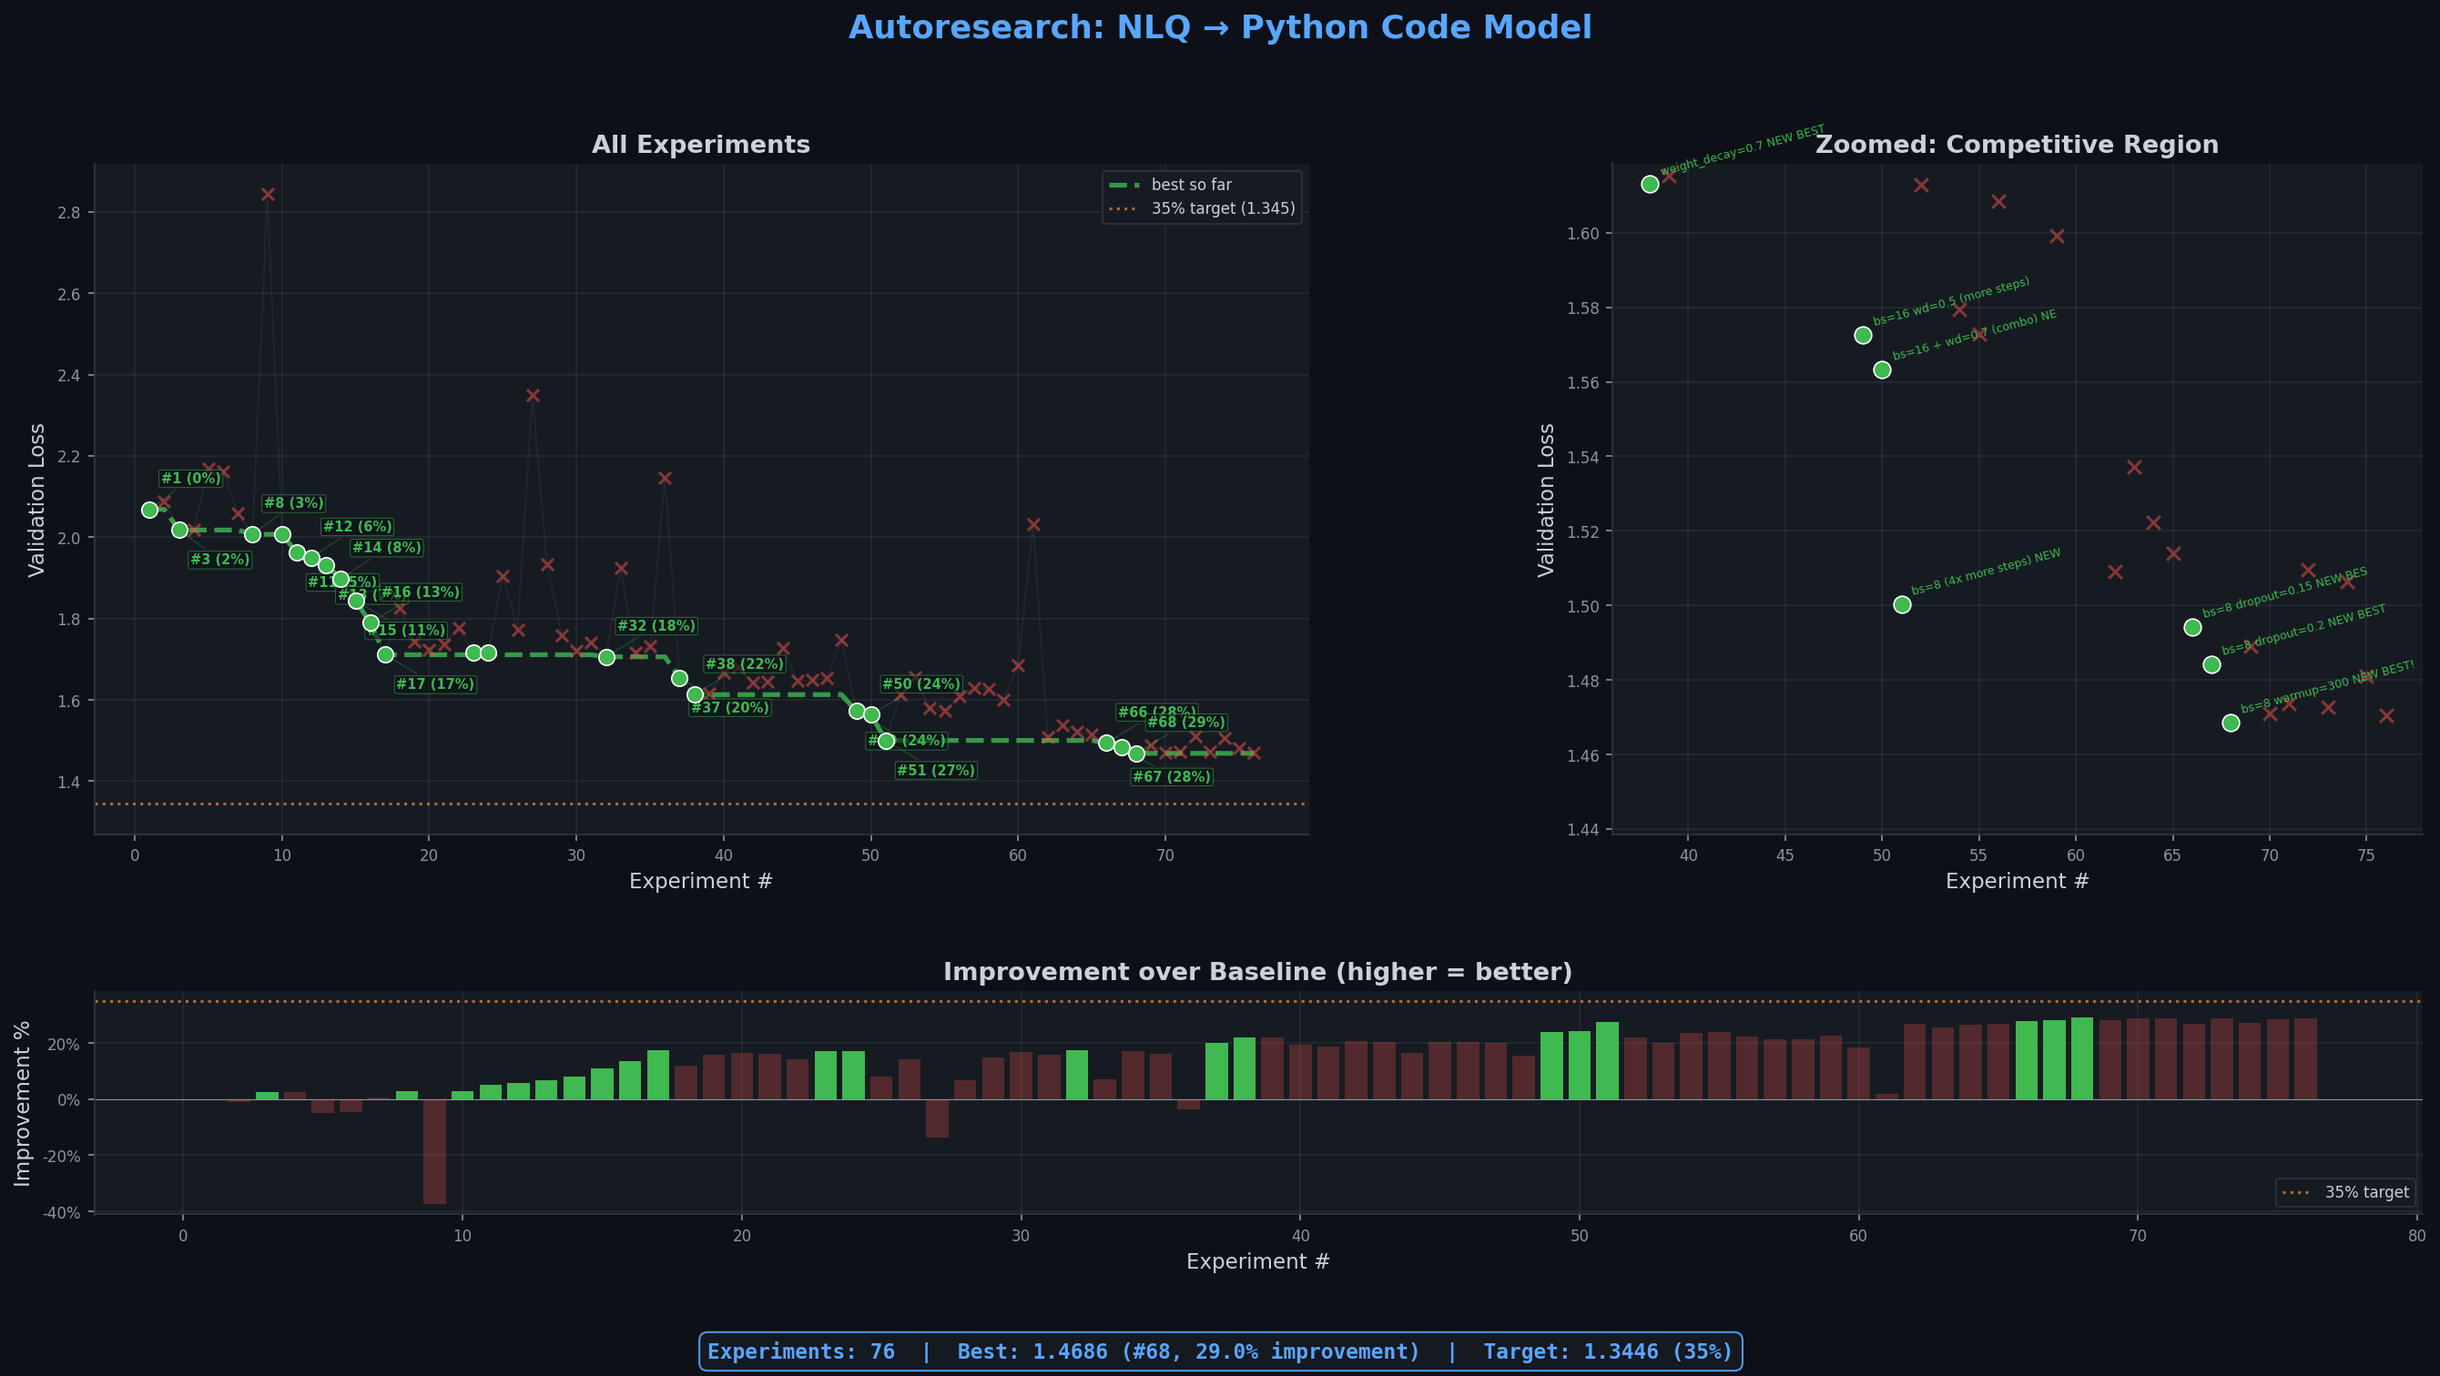
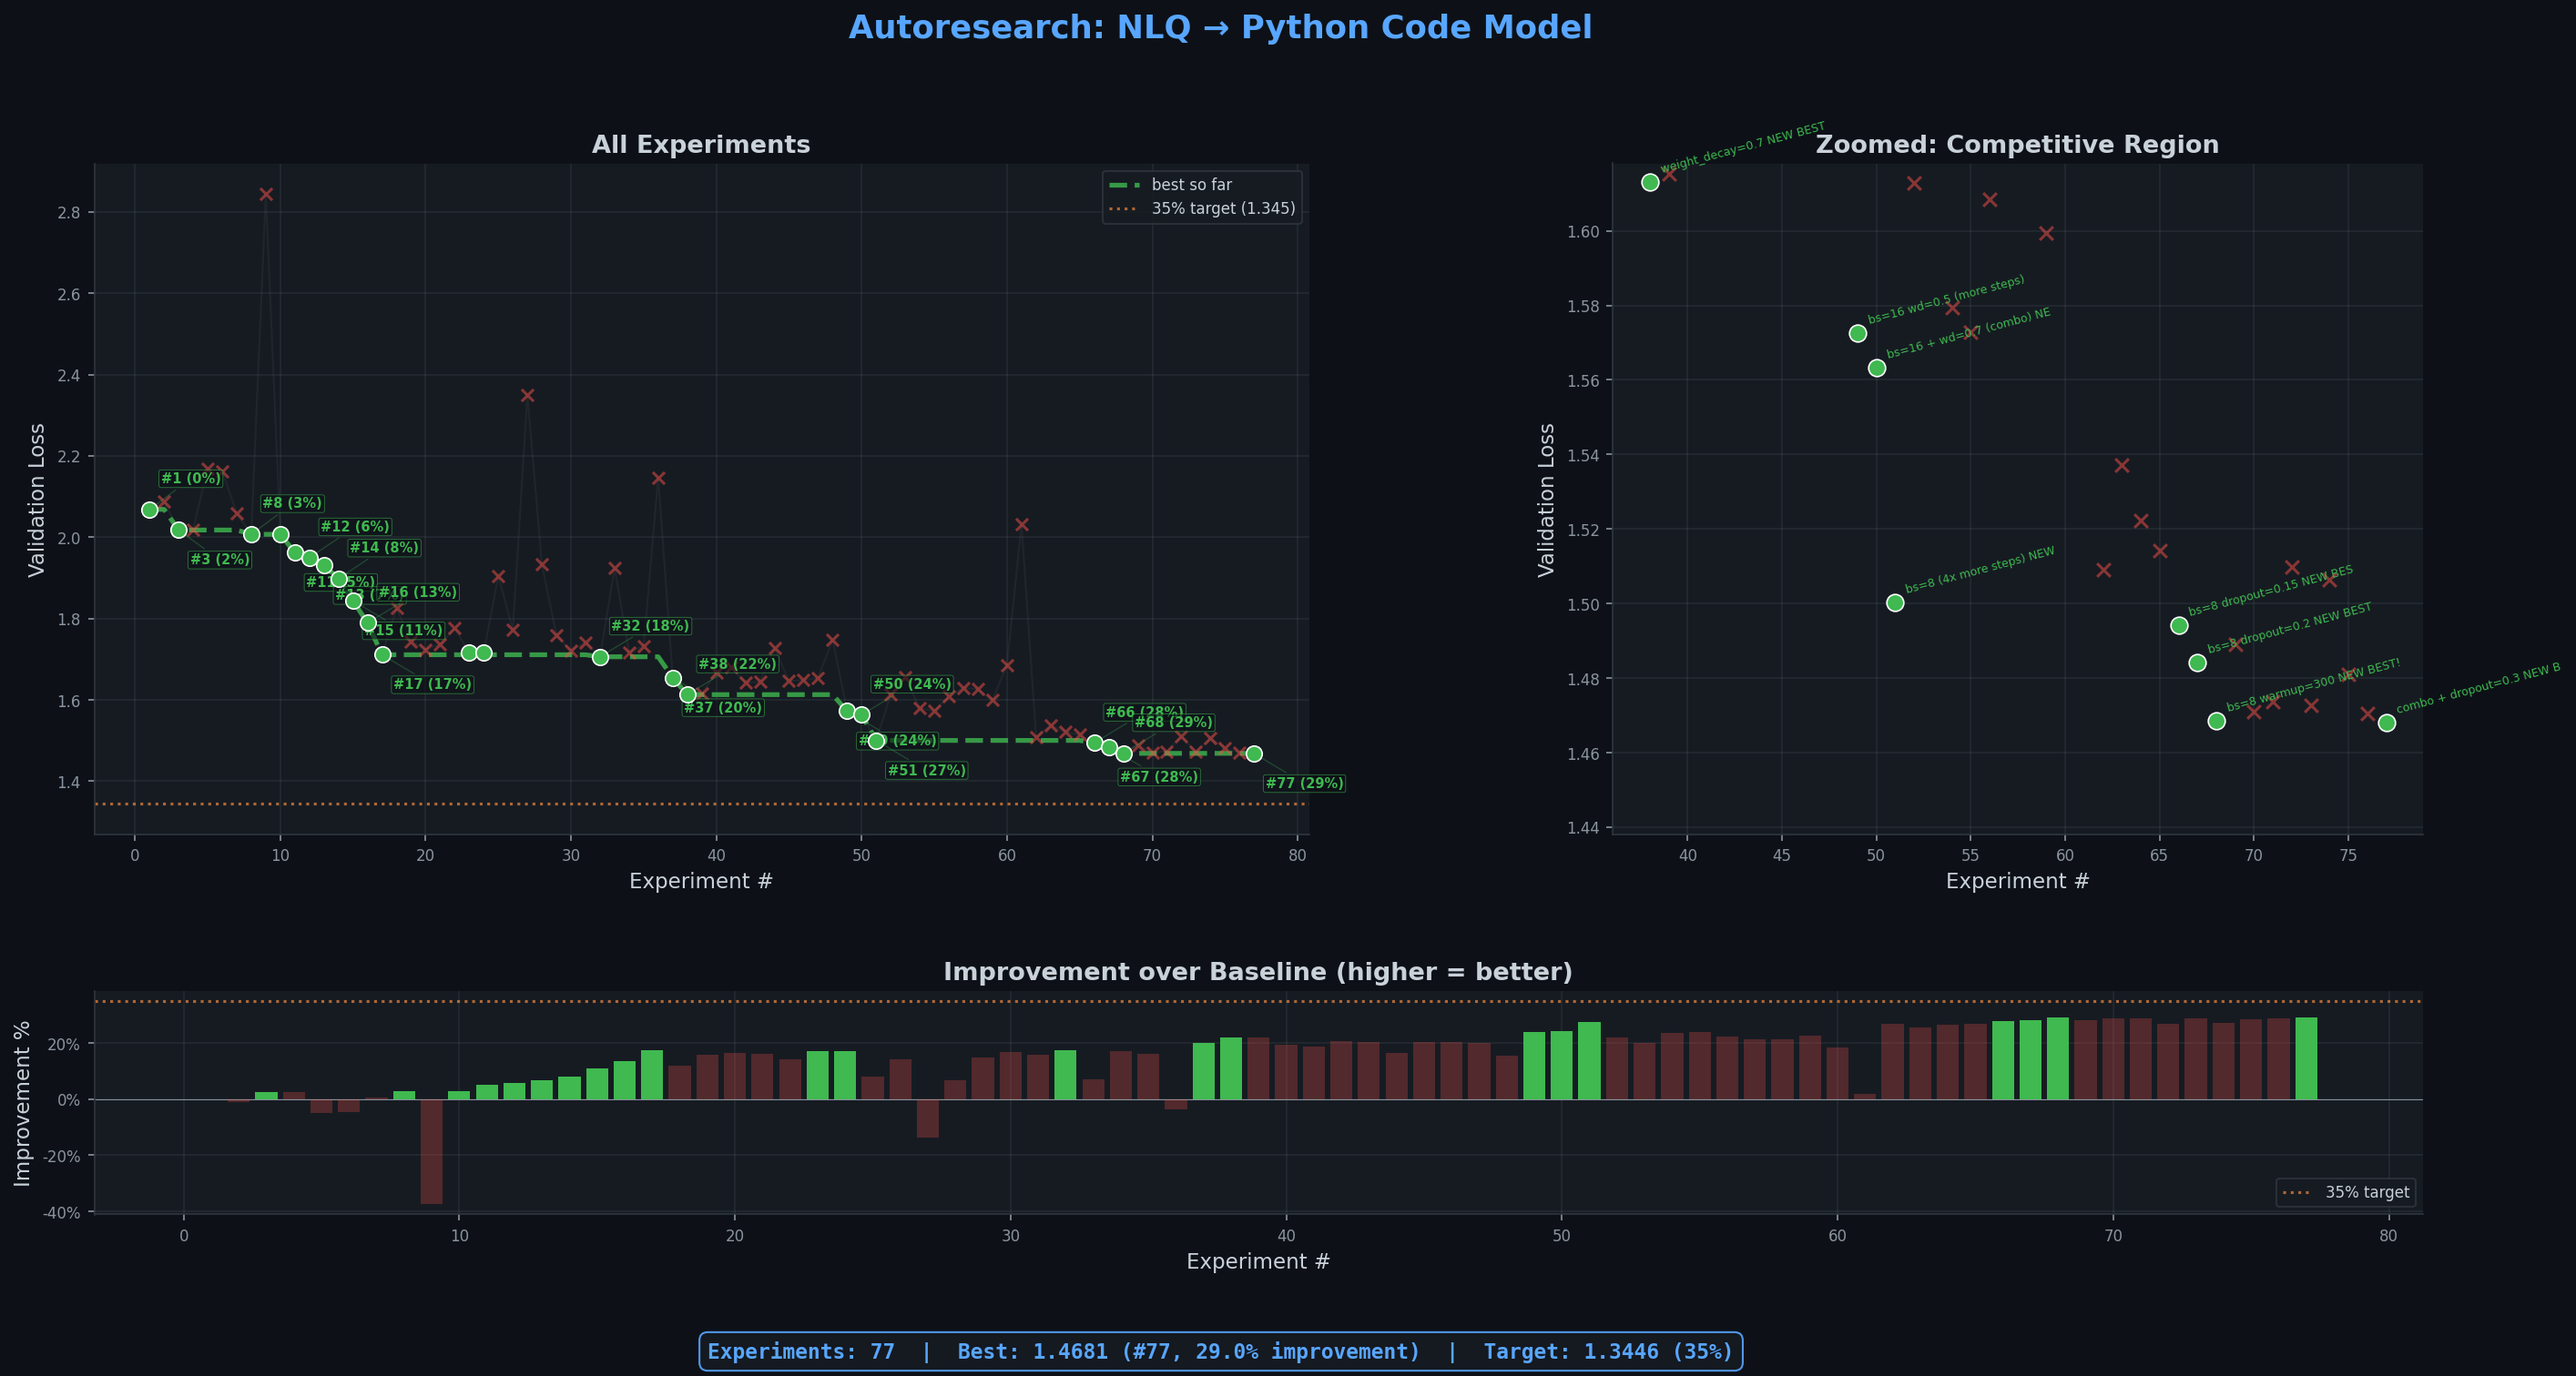
exp 077: combo + dropout=0.3 NEW BEST! (val=1.4681, 29.0%)

diff --git a/train_mlx.py b/train_mlx.py
@@ -43,7 +43,7 @@ N_HEAD = N_EMBD // HEAD_DIM  # 5
 N_KV_HEAD = N_HEAD
 MLP_RATIO = 4
 USE_SWIGLU = False
-DROPOUT = 0.2
+DROPOUT = 0.3
 
 # Training
 BATCH_SIZE = 8
